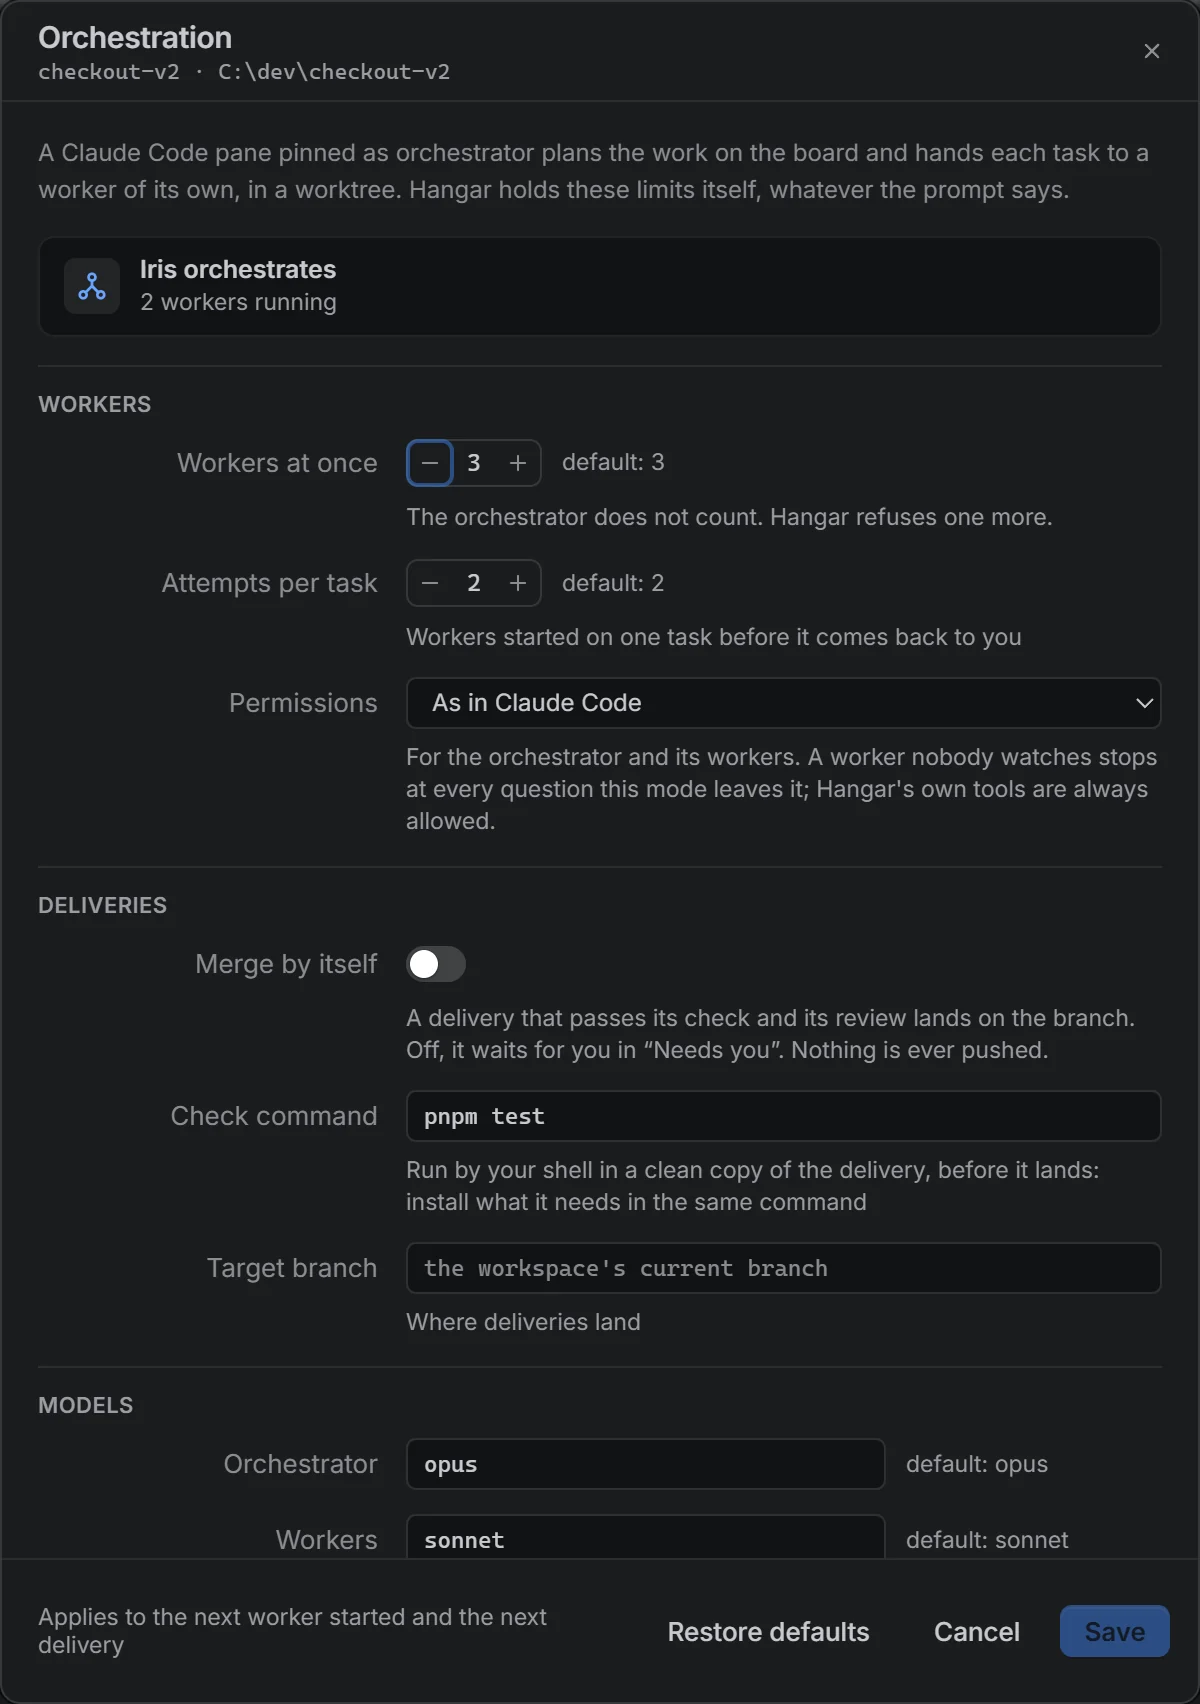
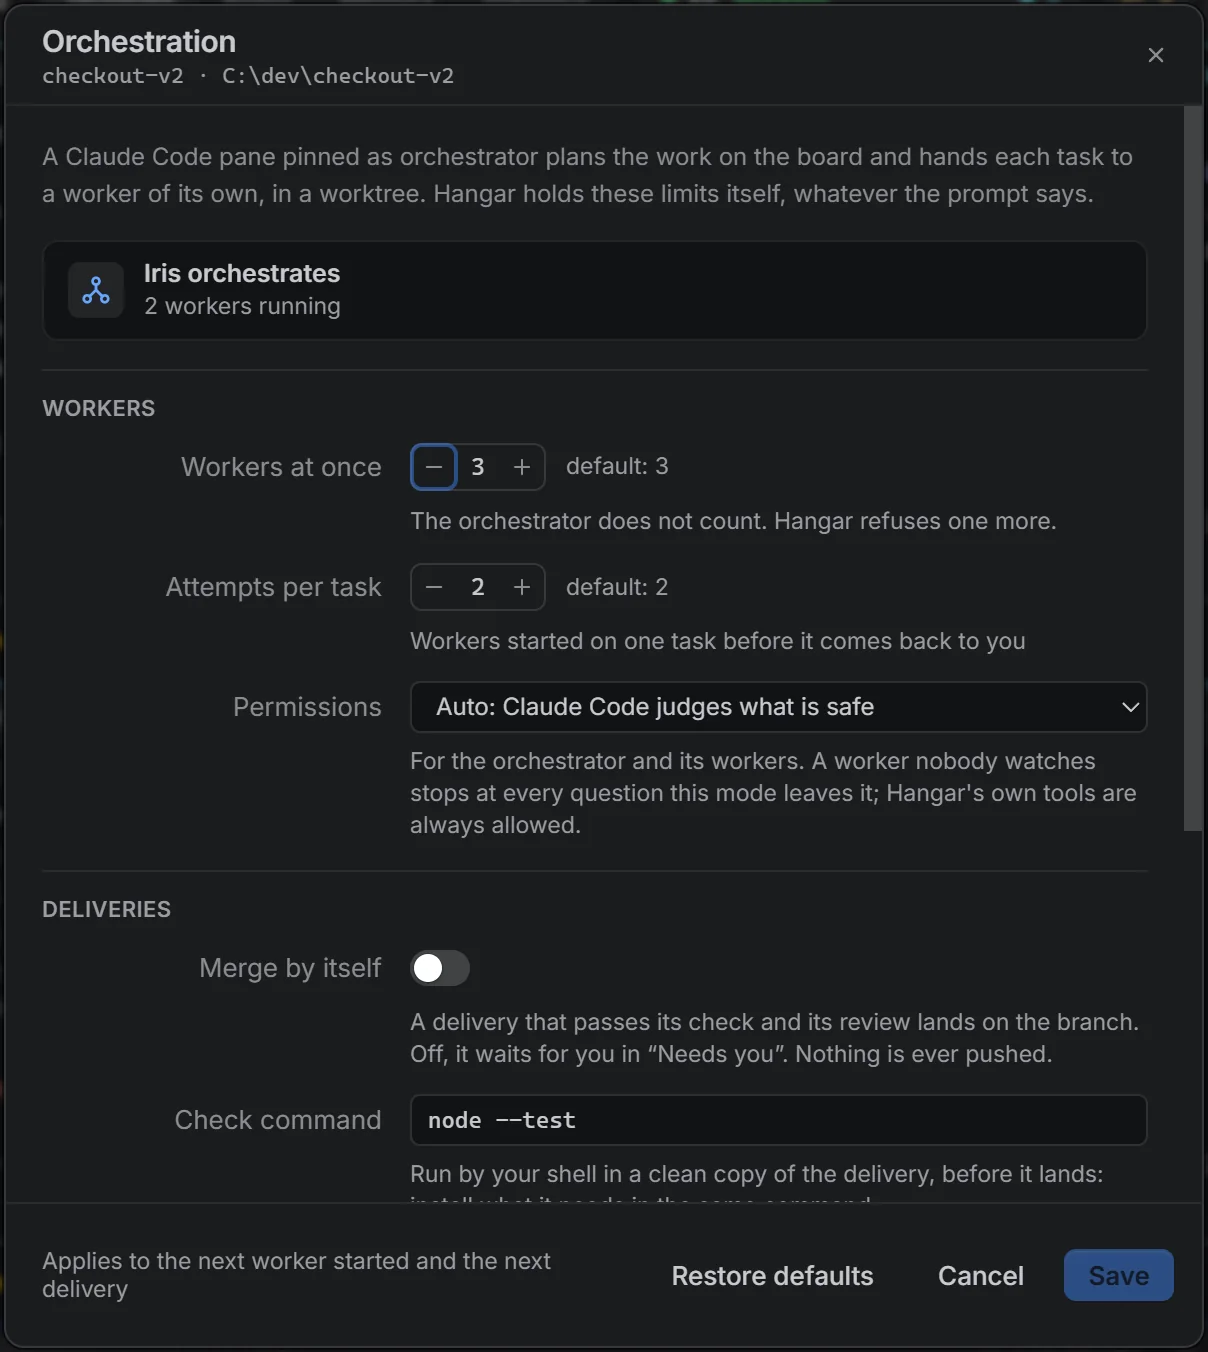
Show the real app in the README
The five README images are cut from the same real session at full
capture size: the hero without the navigator, so its terminals read at
the width of a README; Needs you with a question and two deliveries to
merge; the orchestration settings; the board; the statistics cards
filtered on one project. The note under the hero says they are a real
session on a sample repository, and every alt describes what its image
shows.

diff --git a/README.md b/README.md
@@ -22,9 +22,9 @@
   <a href="CHANGELOG.md">Changelog</a>
 </p>
 
-![Hangar.AI on a workspace with an orchestrator, Iris, and two workers, Jade and Kai, each in its own terminal. Iris was asked to ship checkout v2: she wrote her plan to memory, created board tasks with the files each one owns, started workers, and, told by Hangar that a delivery had landed, started Jade on the task it unblocked. Jade is at work; Kai's delivery passed its check and review and waits to be merged.](.github/assets/hero.webp)
+![Hangar.AI on a workspace with an orchestrator, Iris, and two workers, Zoe and Eli, each in its own terminal. Iris says Zoe reports the coupon task is done and that she is reading the branch's changes before its delivery reaches you. Zoe has finished and left her report on the task. Eli writes the order receipt in a git worktree of its own. On the right, the inspector shows Iris's session, context use, cost and the Claude plan's usage.](.github/assets/hero.webp)
 
-<p align="center"><sub>Screenshots are taken from the browser demo, with made-up data.</sub></p>
+<p align="center"><sub>Screenshots of a real session: Claude Code agents at work on checkout-v2, a sample repository.</sub></p>
 
 Hangar.AI is an open-source desktop app for Windows, macOS and Linux, built with Tauri 2
 and React. It runs the coding agents you already use, each in a real terminal, and gives
@@ -106,8 +106,8 @@ Claude Code.
 
 <table>
   <tr>
-    <td width="50%"><img src=".github/assets/needs-you.webp" alt="The Needs you list: one agent waiting for an answer, one question handed back by the orchestrator, and one delivery ready to merge, whose check and review passed"></td>
-    <td width="50%"><img src=".github/assets/orchestration-settings.webp" alt="A workspace's orchestration settings: workers at once, attempts per task, permissions, automatic merging, check command, target branch and models"></td>
+    <td width="50%"><img src=".github/assets/needs-you.webp" alt="The Needs you list: one question the orchestrator handed back to you, which provider takes EU cards, and two deliveries ready to merge, whose check and review passed"></td>
+    <td width="50%"><img src=".github/assets/orchestration-settings.webp" alt="A workspace's orchestration settings: workers at once, attempts per task, permissions, automatic merging, here turned off, and the check command"></td>
   </tr>
   <tr>
     <td align="center"><sub>Needs you: what waits for you, across workspaces</sub></td>
@@ -164,9 +164,9 @@ Claude Code.
   project, agent and model. They are read from the transcripts Claude Code and Codex keep on
   disk. On a Claude or ChatGPT subscription, the cost figure is an equivalent, not a bill.
 
-![The board of a workspace: two tasks to do, one waiting for a decision and one blocked by another task, one in progress held by a worker, one in review ready to land, and one done](.github/assets/board.webp)
+![The board of a workspace: one task to do, waiting for a decision and depending on two other tasks; two in review, each labelled ready-to-land, with the worker that did it; and four done](.github/assets/board.webp)
 
-![The usage statistics view: tokens, API-equivalent cost, active time and sessions over 30 days, tokens per day, usage by project, and a heatmap of active hours across the week](.github/assets/stats.webp)
+![The usage statistics view over 30 days, filtered on one project: tokens, API-equivalent cost, active time and sessions](.github/assets/stats.webp)
 
 ### Also
 
